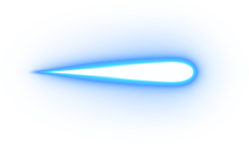
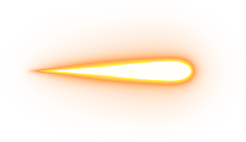
Add some spaceships and shots iamge

Changed region(s): [[0.1138, 0.1972, 0.8537, 0.7887]]

diff --git a/js/game.js b/js/game.js
@@ -13,6 +13,7 @@ class Game {
       [8, 3],
     ];
     this.speedSpawnShot = 700;
+    this.imageShot = 0
     this.speedMovement = speed;
     this.randomBonus;
     this.amountShot = 1;
@@ -74,33 +75,35 @@ class Game {
       <h1>SPACESHIP SELECTOR</h1>
       <div id="selector">
           <div class="spaceship">
-              <div><img src="./Images/spaceship1.png" width="100%"></div>
+              <div><img src="./Images/spaceship1.png" width="100%"draggable="false"></div>
               <div class="text-spaceship">Spaceship 1</div>
           </div>
           <div class="spaceship">
-              <div><img src="./Images/spaceship2.png" width="100%"></div>
+              <div><img src="./Images/spaceship2.png" width="100%"draggable="false"></div>
               <div class="text-spaceship">Spaceship 2</div>
           </div>
           <div class="spaceship">
-              <div><img src="./Images/spaceship3.png" width="100%"></div>
+              <div><img src="./Images/spaceship3.png" width="100%"draggable="false"></div>
               <div class="text-spaceship">Spaceship 3</div>
           </div>
           <div class="spaceship">
-              <div><img src="./Images/spaceship4.png" width="100%"></div>
-              <div class="text-spaceship">Spaceship 3</div>
+              <div><img src="./Images/spaceship4.png" width="100%"draggable="false"></div>
+              <div class="text-spaceship">Spaceship 4</div>
           </div>
           </div>
-          <div id="start-button">
+          <div id="spaceship-start-button">
           <a href="#" onclick="start()"draggable="false">START</a></div>
       `;
     this.boardElm.prepend(this.selectSpaceship);
     this.spaceshipSelected = [...document.getElementsByClassName("spaceship")];
-    this.spaceshipSelected.forEach((element) => {
+    this.spaceshipSelected.forEach((element, index) => {
       element.addEventListener("click", () => {
         this.spaceshipSelected.forEach((element2) => {
-          element2.classList.remove("clicked")
-        })
+          element2.classList.remove("clicked");
+          element2.removeAttribute("id");
+        });
         element.classList.add("clicked");
+        element.setAttribute("id", "spaceship-final");
       });
     });
   }
@@ -127,6 +130,23 @@ class Game {
     this.boardElm.prepend(this.menu);
   }
   start() {
+    this.spaceshipFinal = document.getElementById("spaceship-final");
+    this.textSpaceship = [
+      ...this.spaceshipFinal.getElementsByClassName("text-spaceship"),
+    ];
+    if (this.textSpaceship[0].innerHTML.includes("1")) {
+      this.player = new Player(1);
+      this.imageShot = 1
+    } else if (this.textSpaceship[0].innerHTML.includes("2")) {
+      this.player = new Player(2);
+      this.imageShot = 2
+    } else if (this.textSpaceship[0].innerHTML.includes("3")) {
+      this.player = new Player(3);
+      this.imageShot = 3
+    } else if (this.textSpaceship[0].innerHTML.includes("4")) {
+      this.player = new Player(4);
+      this.imageShot = 4
+    } 
     this.selectSpaceship.remove();
     this.scoreId.style.display = "flex";
     this.healthId.style.display = "flex";
@@ -134,9 +154,8 @@ class Game {
     this.audioBackgroundGame.loop = true;
     this.firstWave = true;
     this.audioBackgroundGame.play();
-    this.player = new Player();
-    this.spawnShot(this.positionCanon[0][0], this.positionCanon[0][1]);
-    this.spawnShot(this.positionCanon[1][0], this.positionCanon[1][1]);
+    this.spawnShot(this.positionCanon[0][0], this.positionCanon[0][1],this.imageShot);
+    this.spawnShot(this.positionCanon[1][0], this.positionCanon[1][1],this.imageShot);
     this.spawnEnemy(0.4, 1200, 1, 15000);
     this.spawnMeteor();
     this.spawnBonus();
@@ -235,12 +254,13 @@ class Game {
     }, 1000);
     this.intervalIds.push(this.spawnerMeteor);
   }
-  spawnShot(positionX, positionY) {
+  spawnShot(positionX, positionY,image) {
     //Player shots every XX ms
     this.spawnerShot = setInterval(() => {
       const newShot = new Shot(
         this.player.positionX + positionX,
-        this.player.positionY + positionY
+        this.player.positionY + positionY,
+        image
       );
       this.allShots.push(newShot);
     }, this.speedSpawnShot);
@@ -412,7 +432,8 @@ class Game {
             this.allCanons[index] = setInterval(() => {
               const newShot = new Shot(
                 this.player.positionX + this.positionCanon[index][0],
-                this.player.positionY + this.positionCanon[index][1]
+                this.player.positionY + this.positionCanon[index][1],
+                this.imageShot
               );
               this.allShots.push(newShot);
             }, this.speedSpawnShot);
@@ -428,13 +449,13 @@ class Game {
       case 3:
         //Bonus more bullets
         if (this.amountShot === 1) {
-          this.spawnShot(4, 10);
+          this.spawnShot(4, 10,this.imageShot);
           this.amountShot++;
         } else if (this.amountShot === 2) {
           this.amountShot++;
-          this.spawnShot(0, 3);
+          this.spawnShot(0, 3,this.imageShot);
         } else if (this.amountShot === 3) {
-          this.spawnShot(8, 3);
+          this.spawnShot(8, 3,this.imageShot);
           this.amountShot++;
         }
         break;

diff --git a/css/style.css b/css/style.css
@@ -54,10 +54,21 @@ body {
 }
 
 #player {
-    background-image: url(../Images/spaceship1.png);
     background-size: cover;
     background-repeat: no-repeat;
     position: absolute;
+}
+.spaceship1{
+    background-image: url(../Images/spaceship1.png);
+}
+.spaceship2{
+    background-image: url(../Images/spaceship2.png);
+}
+.spaceship3{
+    background-image: url(../Images/spaceship3.png);
+}
+.spaceship4{
+    background-image: url(../Images/spaceship4.png);
 }
 .enemy,.enemy2{
     background-size: cover;
@@ -108,10 +119,22 @@ body {
 .shot {
     /* background-color: red; */
     background-position: center;
-    background-image: url(../assets/shot2.png);
+
     background-size: cover;
     transform: rotate(-90deg);
     position: absolute;
+}
+.shot1{
+    background-image: url(../assets/shot1.png);
+}
+.shot2{
+    background-image: url(../assets/shot2.png);
+}
+.shot3{
+    background-image: url(../assets/shot3.png);
+}
+.shot4{
+    background-image: url(../assets/shot4.png);
 }
 
 .display-window {
@@ -251,7 +274,7 @@ body {
     font-weight: 600;
     color: #fdfdfe;
     text-shadow: 0px 0px 5px #b393d3, 0px 0px 10px #b393d3, 0px 0px 10px #b393d3,
-        0px 0px 20px #b393d3;
+    0px 0px 20px #b393d3;
 }
 #selector{
     display: flex;
@@ -260,6 +283,20 @@ body {
     gap: 1%;
     width: 100%;
     height: 60%;
+}
+#spaceship-start-button a{
+    cursor: pointer;
+    text-decoration: none;
+    font-weight: bold;
+    color: #fdfdfe;
+    font-size: 500%;
+    text-shadow: 0px 0px 5px black, 0px 0px 10px black, 0px 0px 10px black,
+        0px 0px 20px black;
+}
+#spaceship-start-button a:hover{
+    color: #fdfdfe;
+    text-shadow: 0px 0px 5px #b41d1d, 0px 0px 10px #b41d1d, 0px 0px 10px #b41d1d,
+        0px 0px 20px #b41d1d;
 }
 #selector > div{
     box-sizing: content-box;
@@ -272,10 +309,10 @@ body {
     border: 2px solid #fdfdfe;
 }
 #selector > div:active{
-    border: 2px solid darkgrey;
+    border: 2px solid #fdfdfe;
 }
 .clicked{
-    background-color: rgb(198, 1, 1);
+    border: 2px solid #fdfdfe !important
 }
 .spaceship{
     display: flex;

diff --git a/js/player.js b/js/player.js
@@ -1,5 +1,5 @@
 class Player {
-  constructor() {
+  constructor(image) {
     this.width = 12;
     this.height = 12;
     this.initialPositionX = 100 / 2 - this.width / 2; //Centered
@@ -11,6 +11,26 @@ class Player {
     this.playerElm.style.bottom = this.positionY + "vh";
     this.playerElm.style.width = this.width + "vh";
     this.playerElm.style.height = this.height + "vh";
+    this.selectBackground(image);
+  }
+  selectBackground(image) {
+    switch (image) {
+      case 1:
+        this.playerElm.classList.add("spaceship1")
+        break;
+        case 2:
+        this.playerElm.classList.add("spaceship2")
+        break;
+        case 3:
+        this.playerElm.classList.add("spaceship3")
+        break;
+        case 4:
+        this.playerElm.classList.add("spaceship4")
+        break;
+
+      default:
+        break;
+    }
   }
   moveRight() {
     if (this.positionX < this.initialPositionX * 2) {
@@ -41,9 +61,9 @@ class Player {
     }
   }
   playerDamaged() {
-    this.playerElm.classList.add("player-takes-damage")
+    this.playerElm.classList.add("player-takes-damage");
     setTimeout(() => {
-      this.playerElm.classList.remove("player-takes-damage")
+      this.playerElm.classList.remove("player-takes-damage");
     }, 4000);
   }
 }

diff --git a/js/shot.js b/js/shot.js
@@ -1,11 +1,12 @@
 class Shot {
-    constructor(positionX,positionY){
+    constructor(positionX,positionY,image){
         this.width = 4;
         this.height = 2;
         this.positionX = positionX
         this.positionY = positionY
         this.speedMovement
         this.createDomElement();
+        this.selectBackground(image)
     }
     createDomElement(){
         this.shotSpawn = document.createElement("div")
@@ -19,5 +20,24 @@ class Shot {
     moveUp(speed){
         this.positionY += speed
         this.shotSpawn.style.bottom = this.positionY + "vh"
+    }
+    selectBackground(image) {
+      switch (image) {
+        case 1:
+          this.shotSpawn.classList.add("shot1")
+          break;
+          case 2:
+          this.shotSpawn.classList.add("shot2")
+          break;
+          case 3:
+          this.shotSpawn.classList.add("shot3")
+          break;
+          case 4:
+          this.shotSpawn.classList.add("shot4")
+          break;
+  
+        default:
+          break;
+      }
     }
 }
